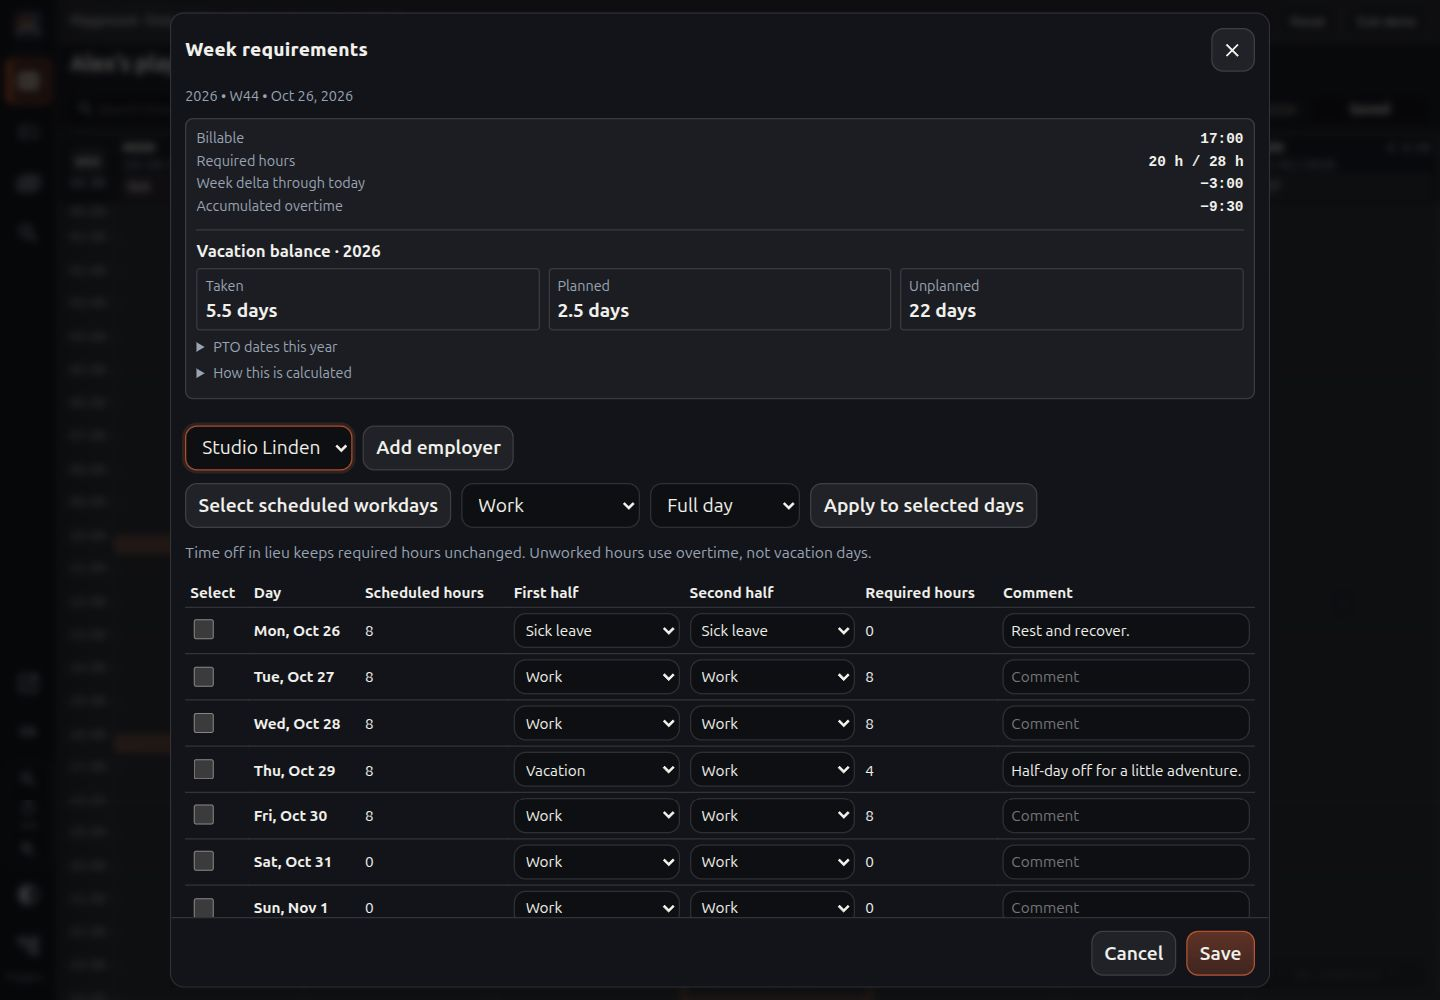
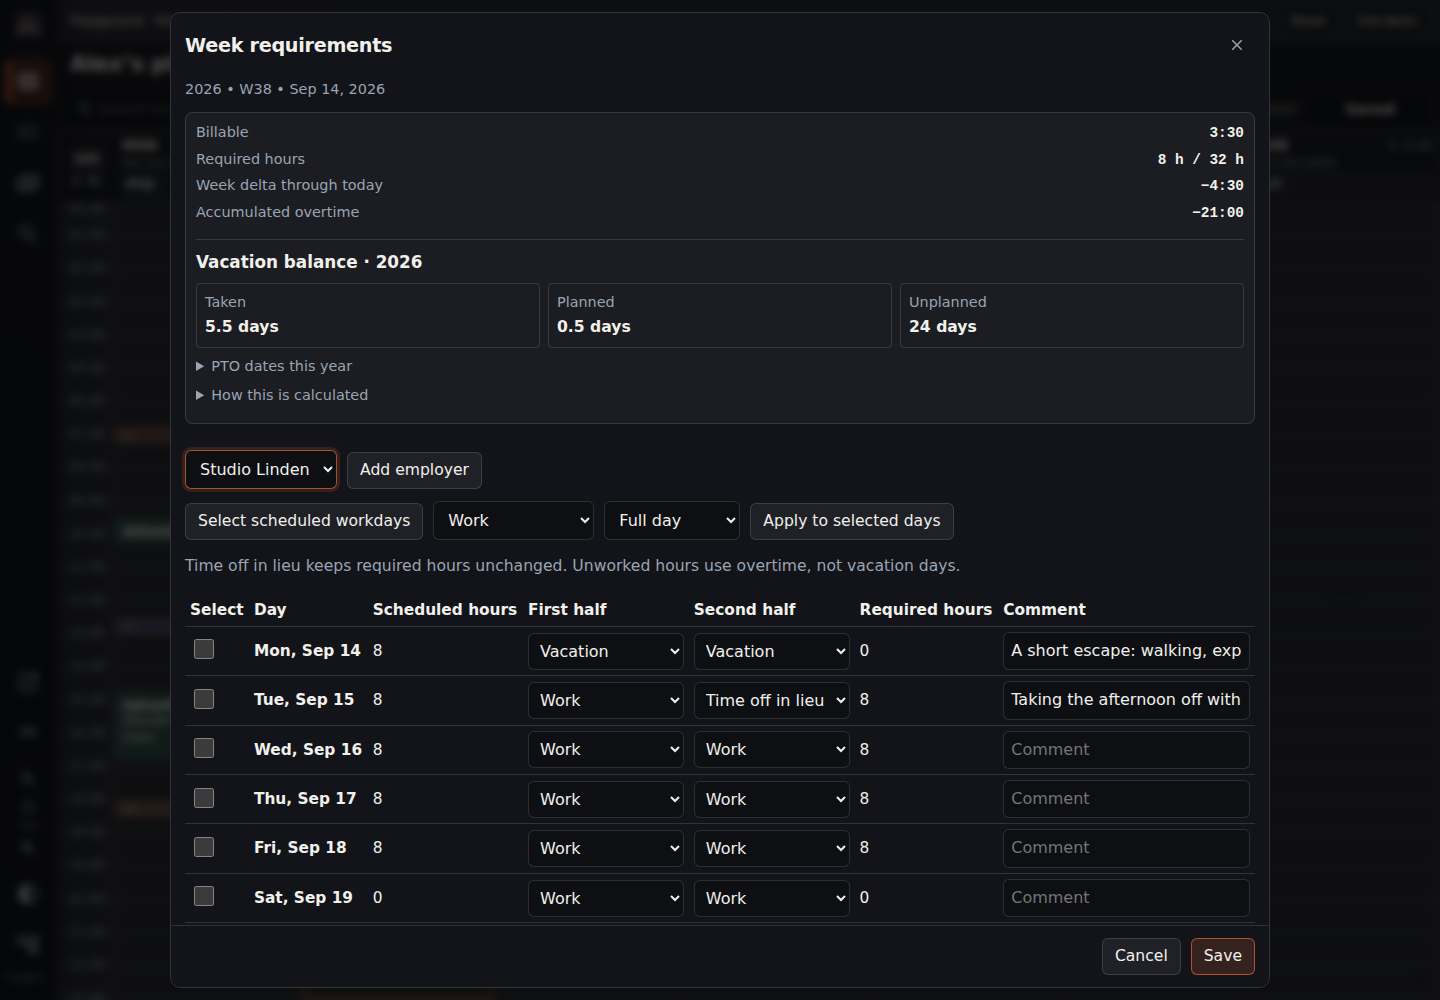
docs: refresh guide screenshots from verified release CI

diff --git a/README.md b/README.md
@@ -275,7 +275,7 @@ For a reproducible scenario, add an optional seed, for example `/time?demo=1&dem
 
 `npm run screenshots` extends the existing `tests/demo.browser.mjs` integration scenario: it starts an isolated server with local-workspace access disabled, sets the browser reference clock to September 15, 2026, uses seed `docs-v1`, and captures desktop/mobile examples under `test-results/demo/`. Locale (`en-US`), timezone (`Europe/Berlin`), dark theme, 100% app zoom, and desktop/phone viewports (1440×1000 / 390×844) are pinned. Captures wait for fonts and disable animations/carets. The pictured state is asserted before capture; `capture-manifest.json` records the settings, browser version, and image inventory. The same scenario runs in CI and rejects repository requests and durable-storage access. No private data or screenshots of personal workspaces are used.
 
-To refresh the public guide images, run `npm run screenshots:publish`, inspect all six images in `assets/guide/`, and commit them with the UI change. They cover the week, daily leave, tasks, the task editor, expenses, and the expense editor. Publication happens only after the complete scenario passes. CI uploads `test-results/demo/` as a review artifact; it never commits screenshots automatically. The initial guide images were visually checked and captured through the browser against the fictional playground on October 29, 2026; the refresh command produces the fixed-reference-date baseline. The guide is plain static HTML, uses no credentials, and is included by the ordinary site builder.
+To refresh the public guide images, run `npm run screenshots:publish`, inspect all six images in `assets/guide/`, and commit them with the UI change. They cover the week, daily leave, tasks, the task editor, expenses, and the expense editor. Publication happens only after the complete scenario passes. CI uploads `test-results/demo/` as a review artifact; it never commits screenshots automatically. The 1.4.0 guide images were refreshed from [the passing CI capture run](https://github.com/josephbirkner/zeitberg/actions/runs/41082834652) and visually reviewed on October 30, 2026, using the fixed reference date above. The guide is plain static HTML, uses no credentials, and is included by the ordinary site builder.
 
 Before a release, run `npm test`, `npm run typecheck`, `npm run screenshots`, and `npm run build:site` (with a fresh output directory). The guide test checks chapter links, local assets, screenshot alt text, and integration-scenario coverage; CI also checks that the built site contains the guide and screenshots. Open `guide.html` at desktop and phone widths and review the CI images before publishing changes. The mocked provider onboarding tests cover UI state and errors, not real provider authorization: record real GitHub/GitLab/Codeberg smoke checks separately, never as documentation screenshots containing credentials or private data.
 
